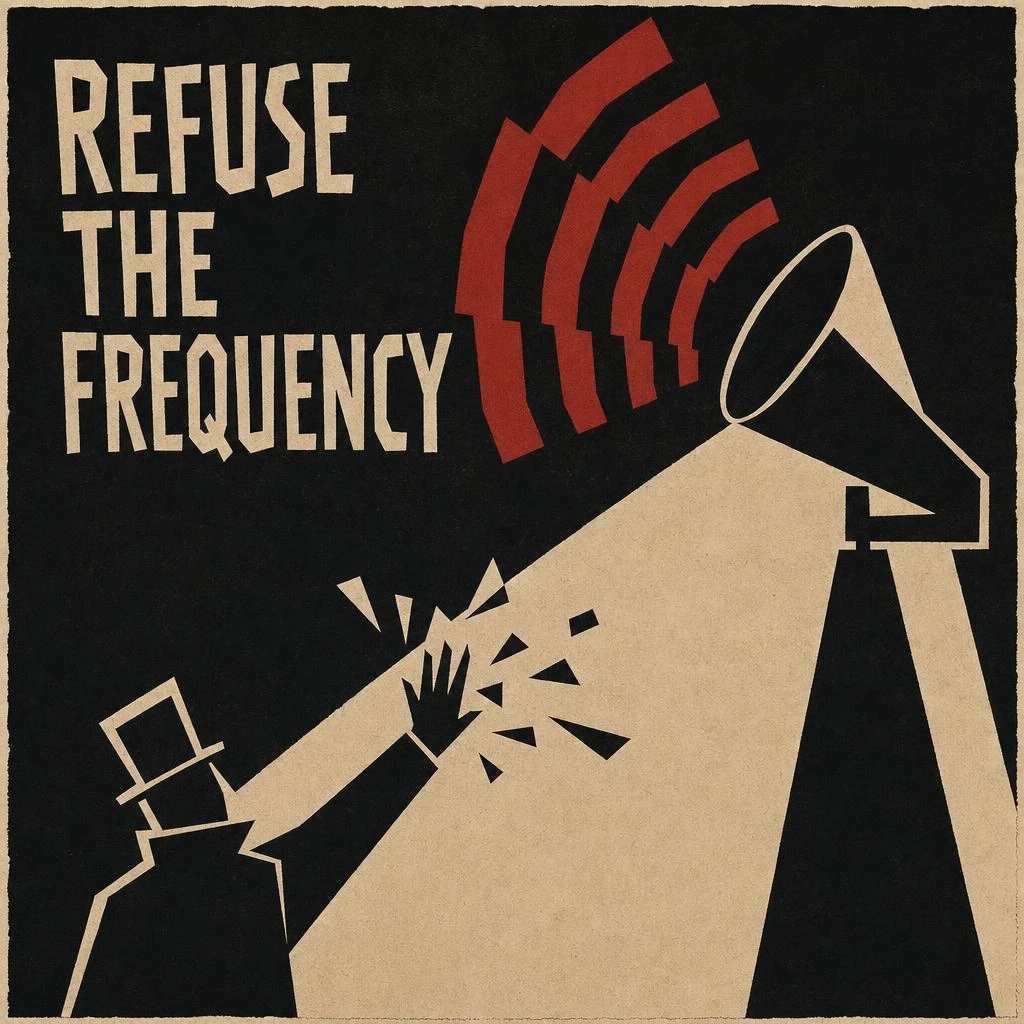
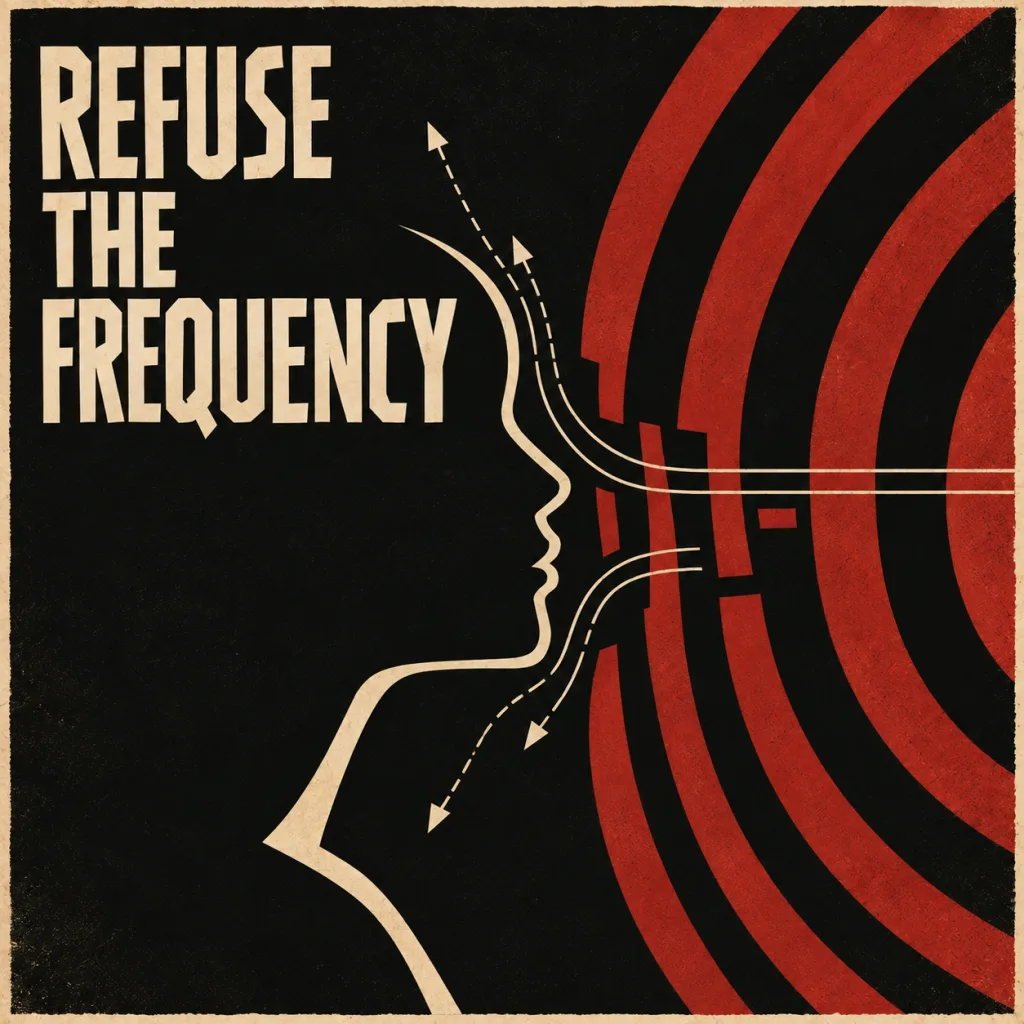
JC: new Refuse the Frequency title art
Swaps in the showcard version: a cream profile turning away from red
broadcast rings, with the title in stacked condensed capitals and a
cream matte edge like the newer JC cards. Encoded from the 1254 PNG
down to 1024x1024 to match the rest of the set, 79KB (was 171KB).

bump-cover.sh re-keyed every reference (the JC track list, and og/
twitter/JSON-LD on both song subpages, including the gwor redirect), and
main.js is re-stamped. Also corrects og:image:width/height on both
subpages from 1254 to 1024; they were already wrong for the old
1024 file.

Verified locally: opening /#junkyard-cabaret/refuse-the-frequency sets
#jcCoverImg to refuse-the-frequency-title.webp?v=202609271700, and the
server returns the new 1024x1024 bytes.

diff --git a/songs/junkyard-cabaret/refuse-the-frequency/index.html b/songs/junkyard-cabaret/refuse-the-frequency/index.html
@@ -13,16 +13,16 @@
     <meta property="og:url" content="https://charleswilke.com/songs/junkyard-cabaret/refuse-the-frequency/">
     <meta property="og:title" content="Refuse the Frequency | Junkyard Cabaret">
     <meta property="og:description" content="An itch right under the skin in a world engineered for irritation, and the quiet power of refusing to scratch. From Junkyard Cabaret, a ramshackle album-in-progress.">
-    <meta property="og:image" content="https://charleswilke.com/audio/junkyard-cabaret/refuse-the-frequency-title.webp?v=202606142108">
-    <meta property="og:image:width" content="1254">
-    <meta property="og:image:height" content="1254">
+    <meta property="og:image" content="https://charleswilke.com/audio/junkyard-cabaret/refuse-the-frequency-title.webp?v=202609271700">
+    <meta property="og:image:width" content="1024">
+    <meta property="og:image:height" content="1024">
     <meta property="og:image:alt" content="Refuse the Frequency title art">
 
     <meta name="twitter:card" content="summary_large_image">
     <meta name="twitter:url" content="https://charleswilke.com/songs/junkyard-cabaret/refuse-the-frequency/">
     <meta name="twitter:title" content="Refuse the Frequency | Junkyard Cabaret">
     <meta name="twitter:description" content="An itch right under the skin in a world engineered for irritation, and the quiet power of refusing to scratch. From Junkyard Cabaret, a ramshackle album-in-progress.">
-    <meta name="twitter:image" content="https://charleswilke.com/audio/junkyard-cabaret/refuse-the-frequency-title.webp?v=202606142108">
+    <meta name="twitter:image" content="https://charleswilke.com/audio/junkyard-cabaret/refuse-the-frequency-title.webp?v=202609271700">
     <meta name="twitter:image:alt" content="Refuse the Frequency title art">
 
     <link rel="icon" type="image/x-icon" href="/favicon.ico?v=202607032147">
@@ -41,7 +41,7 @@
     "name": "Junkyard Cabaret"
   },
   "url": "https://charleswilke.com/songs/junkyard-cabaret/refuse-the-frequency/",
-  "image": "https://charleswilke.com/audio/junkyard-cabaret/refuse-the-frequency-title.webp?v=202606142108"
+  "image": "https://charleswilke.com/audio/junkyard-cabaret/refuse-the-frequency-title.webp?v=202609271700"
 }
     </script>
 

diff --git a/main.js b/main.js
@@ -5557,7 +5557,7 @@ function initJCLightbox() {
         { title: 'What You Get', file: '/audio/junkyard-cabaret/what-you-get.mp3?v=202608081613', cover: '/audio/junkyard-cabaret/what-you-get-title.webp', article: 'https://charleswilke.substack.com/p/the-stuff-of-fairy-tales' },
         { title: "Morning's Flood", file: '/audio/junkyard-cabaret/mornings-flood.mp3?v=202607051245', cover: '/audio/junkyard-cabaret/mornings-flood-title.webp', article: 'https://charleswilke.substack.com/p/cherish-your-confident-ire' },
         { title: 'Mind the Drop', file: '/audio/junkyard-cabaret/mind-the-drop.mp3?v=202606261404', cover: '/audio/junkyard-cabaret/mind-the-drop-title.webp?v=202607041720', article: 'https://charleswilke.substack.com/p/creative-spirits' },
-        { title: 'Refuse the Frequency', file: '/audio/junkyard-cabaret/refuse-the-frequency.mp3?v=202609271647', cover: '/audio/junkyard-cabaret/refuse-the-frequency-title.webp?v=202606142108', article: 'https://charleswilke.substack.com/p/salve-for-the-algorithmic-rash' },
+        { title: 'Refuse the Frequency', file: '/audio/junkyard-cabaret/refuse-the-frequency.mp3?v=202609271647', cover: '/audio/junkyard-cabaret/refuse-the-frequency-title.webp?v=202609271700', article: 'https://charleswilke.substack.com/p/salve-for-the-algorithmic-rash' },
         { title: 'Fits and Starts', file: '/audio/junkyard-cabaret/fits-and-starts.mp3?v=202609271235', cover: '/audio/junkyard-cabaret/fits-and-starts-title.webp?v=202607042140', article: 'https://charleswilke.substack.com/p/fits-and-starts' },
         { title: 'Misdirected.', file: '/audio/junkyard-cabaret/misdirected.mp3?v=202609271137', cover: '/audio/junkyard-cabaret/misdirected-title.webp?v=202607051217', article: 'https://charleswilke.substack.com/p/misdirected' },
         { title: 'Scarce', act: 'Encore', actInline: true, file: '/audio/junkyard-cabaret/scarce.mp3?v=202607121551', cover: '/audio/junkyard-cabaret/scarce-title.webp', article: 'https://charleswilke.substack.com/p/scarce' }

diff --git a/songs/gwor/refuse-the-frequency/index.html b/songs/gwor/refuse-the-frequency/index.html
@@ -18,16 +18,16 @@
     <meta property="og:url" content="https://charleswilke.com/songs/junkyard-cabaret/refuse-the-frequency/">
     <meta property="og:title" content="Refuse the Frequency | Junkyard Cabaret">
     <meta property="og:description" content="An itch right under the skin in a world engineered for irritation, and the quiet power of refusing to scratch. From Junkyard Cabaret, a ramshackle album-in-progress.">
-    <meta property="og:image" content="https://charleswilke.com/audio/junkyard-cabaret/refuse-the-frequency-title.webp?v=202606142108">
-    <meta property="og:image:width" content="1254">
-    <meta property="og:image:height" content="1254">
+    <meta property="og:image" content="https://charleswilke.com/audio/junkyard-cabaret/refuse-the-frequency-title.webp?v=202609271700">
+    <meta property="og:image:width" content="1024">
+    <meta property="og:image:height" content="1024">
     <meta property="og:image:alt" content="Refuse the Frequency title art">
 
     <meta name="twitter:card" content="summary_large_image">
     <meta name="twitter:url" content="https://charleswilke.com/songs/junkyard-cabaret/refuse-the-frequency/">
     <meta name="twitter:title" content="Refuse the Frequency | Junkyard Cabaret">
     <meta name="twitter:description" content="An itch right under the skin in a world engineered for irritation, and the quiet power of refusing to scratch. From Junkyard Cabaret, a ramshackle album-in-progress.">
-    <meta name="twitter:image" content="https://charleswilke.com/audio/junkyard-cabaret/refuse-the-frequency-title.webp?v=202606142108">
+    <meta name="twitter:image" content="https://charleswilke.com/audio/junkyard-cabaret/refuse-the-frequency-title.webp?v=202609271700">
     <meta name="twitter:image:alt" content="Refuse the Frequency title art">
 
     <link rel="icon" type="image/x-icon" href="/favicon.ico?v=202607032147">

diff --git a/index.html b/index.html
@@ -994,6 +994,6 @@
     <p id="aboutFootnoteDescription">I design how the AI interprets requests and coordinates its response, translating product intent into instructions that guide its behavior. This includes IQ’s voice and tone, and how and when it chooses tools to use.</p>
 </div>
 <script src="/vendor/dompurify.min.js?v=3.4.15" defer></script>
-<script src="/main.js?v=d0b86ce2" defer></script>
+<script src="/main.js?v=29a53913" defer></script>
 </body>
 </html>
